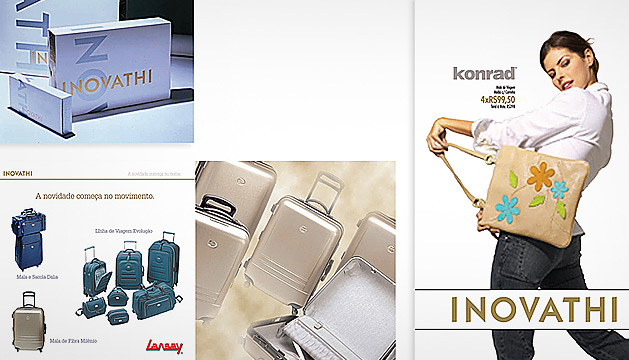
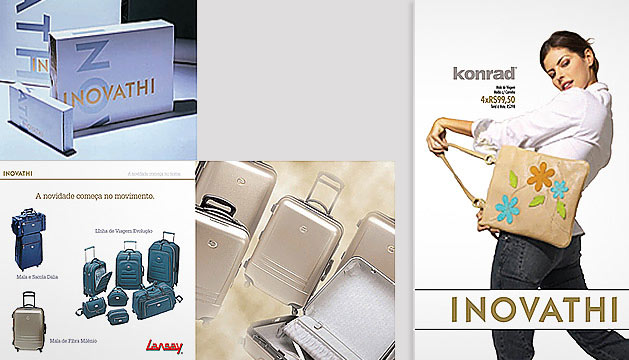
improves UX adds more pics and next picture on slider

Changed region(s): [[0.0, 0.0, 0.6645, 1.0], [0.2417, 0.9472, 0.3021, 0.9778], [0.0302, 0.5806, 0.0604, 0.6111]]

diff --git a/index.html b/index.html
@@ -50,8 +50,8 @@
 
     <article> 
            <header>   
-                <h3>The New Zealand Herald: Letters From Hell</h3>
-                <p>Special long from edition for Anzac Anniversary. Design and development for web and ebook.</p>
+                <h3>Long-form. Special Edition</h3>
+                <p>The New Zealand Herald coverage on Anzac 100 year anniversary. Design and development.</p>
                 <hr>
             </header>
 
@@ -114,8 +114,8 @@
 
     <article> 
            <header>   
-                <h3>Training video platform</h3>
-                <p>Product concept, brand design and first hifi prototype iteration testing user's flow.</p>
+                <h3>Prototyping</h3>
+                <p>Training video platform. Product concept, brand design and first hifi prototype iteration testing user's flow.</p>
                 <hr>
             </header>
 
@@ -164,8 +164,8 @@
                 <ul>
                     <li class="icons-illustrator"><span>Illustrator</span></li>
                     <li class="icons-photoshop"><span>Photoshop</span></li>
-                    <li class="icons-sketch"><span>Sketch</span></li>
                     <li class="icons-html5"><span>HTML5 | Jquery</span></li>
+                    <li class="icons-sass"><span>Sass | Susy</span></li>
                 </ul>
             </div>
     </article>
@@ -173,7 +173,7 @@
     <article> 
            <header>   
                 <h3>User experience and redesign</h3>
-                <p>Wireframes and user analysis to introduce new product. Redesign recommendation based on a Persona.</p>
+                <p>Wireframe and user analysis to introduce new product. Redesign recommendation based on a Persona.</p>
                 <hr>
             </header>
 
@@ -237,8 +237,8 @@
                 <ul>
                     <li class="icons-illustrator"><span>Illustrator</span></li>
                     <li class="icons-photoshop"><span>Photoshop</span></li>
-                    <li class="icons-sketch"><span>Sketch</span></li>
                     <li class="icons-html5"><span>HTML5 | Jquery</span></li>
+                    <li class="icons-indesign"><span>Indesign</span></li>
                 </ul>
             </div>
     </article>
@@ -272,6 +272,11 @@
                     </a>
                 </div>
                 <div class="item desk">
+                    <a href="http://www.nzherald.co.nz/entertainment/news/article.cfm?c_id=1501119&objectid=11376812" target="_blank"title="click to view reviews">
+                      <img src="images/Apps_sample6_desk.jpg" alt="Entertainment: Reviews">
+                    </a>
+                </div>
+                <div class="item desk">
                     <a href="http://www.nzherald.co.nz/entertainment/news/article.cfm?c_id=1501119&objectid=11304741" target="_blank"title="click to view Shihad album release">
                       <img src="images/Apps_sample2_desk.gif" alt="Shihad album release">
                     </a>
@@ -294,6 +299,11 @@
                 <div class="item mob">
                     <a href="http://media.nzherald.co.nz/webcontent/infographics/472/index.html" target="_blank"title="click to view reviews">
                       <img src="images/Apps_sample5_mob.jpg" alt="Life & Style: Reviews">
+                    </a>
+                </div>
+                <div class="item mob">
+                    <a href="http://www.nzherald.co.nz/entertainment/news/article.cfm?c_id=1501119&objectid=11376812" target="_blank"title="click to view reviews">
+                      <img src="images/Apps_sample6_mob.jpg" alt="Entertainment: Reviews">
                     </a>
                 </div>
                 <div class="item mob">
@@ -416,6 +426,26 @@
                       <img src="images/Brand_sample4_desk.jpg" alt="Inovathi">
                     </a> 
                 </div>
+                <div class="item desk">
+                    <a href="#">
+                      <img src="images/Brand_sample5_desk.jpg" alt="Napoleoni">
+                    </a> 
+                </div>
+                <div class="item desk">
+                    <a href="#">
+                      <img src="images/Brand_sample6_desk.jpg" alt="Calendar">
+                    </a> 
+                </div>
+                <div class="item desk">
+                    <a href="#">
+                      <img src="images/Brand_sample7_desk.jpg" alt="Infographic">
+                    </a> 
+                </div>
+                <div class="item desk">
+                    <a href="#">
+                      <img src="images/Brand_sample8_desk.jpg" alt="Infographic">
+                    </a> 
+                </div>
                 <div class="item mob">
                     <a href="http://www.eyestyle.co.nz/" title="click to visit site"  target="_blank">
                       <img src="images/Brand_sample1_mob.jpg" alt="Eyestyle">
@@ -434,6 +464,26 @@
                 <div class="item mob">
                     <a href="#">
                       <img src="images/Brand_sample4_mob.jpg" alt="Inovathi">
+                    </a> 
+                </div>
+                <div class="item mob">
+                    <a href="#">
+                      <img src="images/Brand_sample5_mob.jpg" alt="Napoleoni">
+                    </a> 
+                </div>
+                <div class="item mob">
+                    <a href="#">
+                      <img src="images/Brand_sample6_mob.jpg" alt="Calendar">
+                    </a> 
+                </div>
+                <div class="item mob">
+                    <a href="#">
+                      <img src="images/Brand_sample7_mob.jpg" alt="Infographic">
+                    </a> 
+                </div>
+                <div class="item mob">
+                    <a href="#">
+                      <img src="images/Brand_sample8_mob.jpg" alt="Infographic">
                     </a> 
                 </div>
             </div>
@@ -465,7 +515,7 @@
         $("#anzac_sample").owlCarousel({       
 
             itemsCustom : [
-                [0, 1],
+                [0, 1.14],
                 [400, 1.01],
                 [700, 1.25],
                 [800, 1.38],
@@ -490,7 +540,7 @@
         $("#fight_sample").owlCarousel({       
 
             itemsCustom : [
-                [0, 1],
+                [0, 1.08],
                 [400, 1.01],
                 [700, 1.25],
                 [800, 1.38],
@@ -514,7 +564,7 @@
         $("#bite_sample").owlCarousel({       
 
             itemsCustom : [
-                [0, 1],
+                [0, 1.08],
                 [400, 1.01],
                 [700, 1.25],
                 [800, 1.38],
@@ -538,7 +588,7 @@
         $("#apps_sample").owlCarousel({       
 
             itemsCustom : [
-                [0, 1],
+                [0, 1.08],
                 [400, 1.01],
                 [700, 1.25],
                 [800, 1.38],
@@ -562,7 +612,7 @@
         $("#websites_sample").owlCarousel({       
 
             itemsCustom : [
-                [0, 1],
+                [0, 1.08],
                 [400, 1.01],
                 [700, 1.25],
                 [800, 1.38],
@@ -586,7 +636,7 @@
         $("#branding_sample").owlCarousel({       
 
             itemsCustom : [
-                [0, 1],
+                [0, 1.08],
                 [400, 1.01],
                 [700, 1.25],
                 [800, 1.38],
